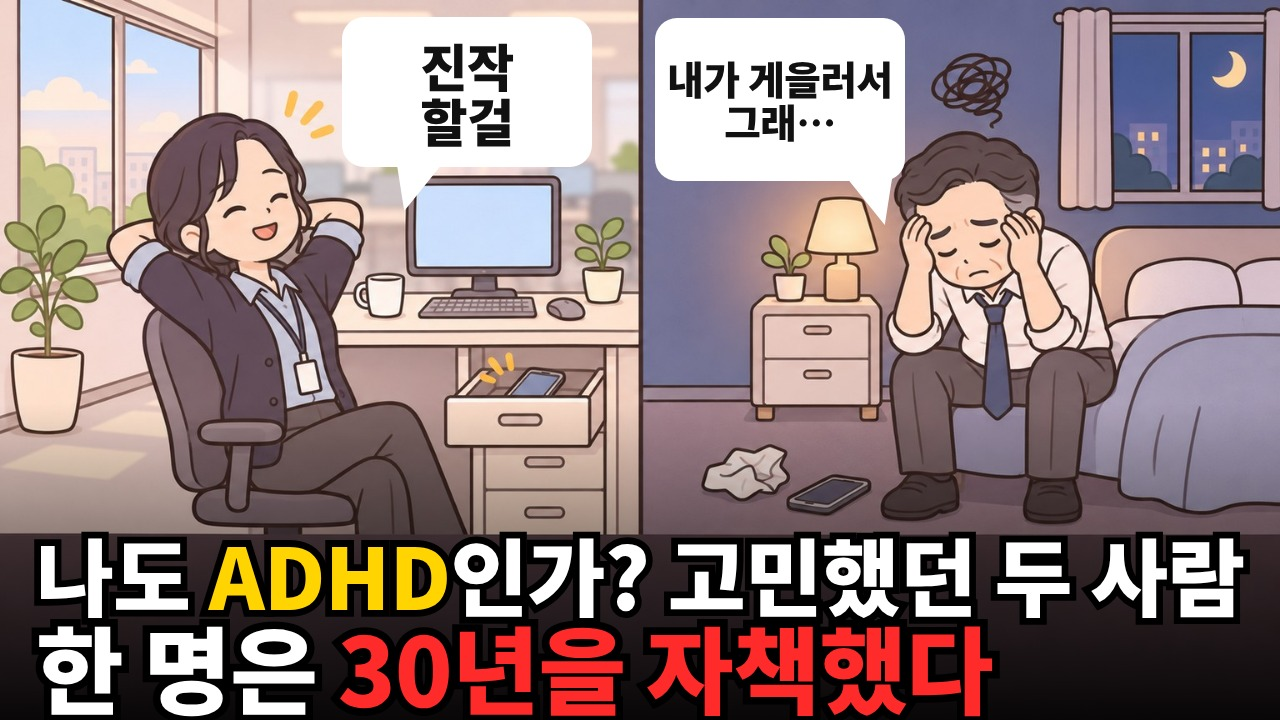
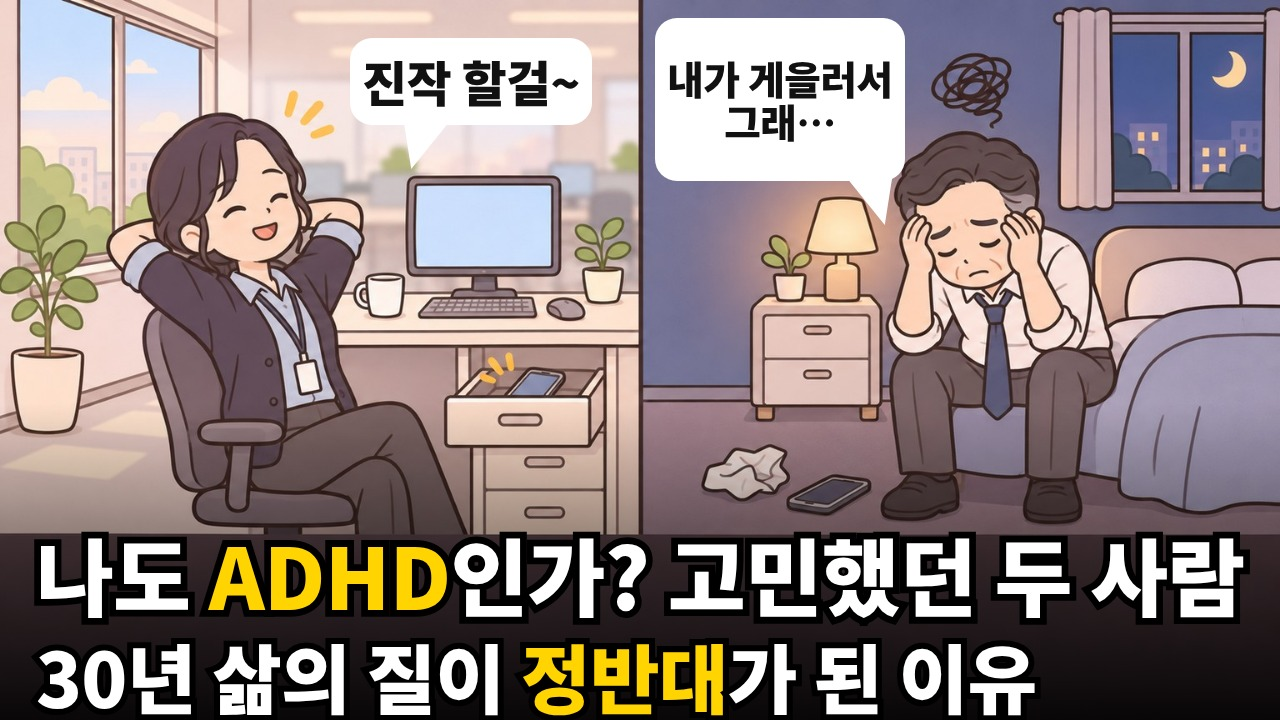
psychology: ADHD 사용자 제목·문구 3안 썸네일 · A 말풍선 「진작 할걸~」 한 줄 · 1안 페르소나 3회차 지시문
- thumbs_build.py v1.7 · package.json title(1안)·thumb_tests(2·3안)

Claude-Session: https://claude.ai/code/session_01PYG2MqrRa1FwGcWhbgqN1W

Changed region(s): [[0.0, 0.8556, 0.8125, 1.0], [0.25, 0.0, 0.4688, 0.275]]

diff --git a/psychology/source/thumbs_build.py b/psychology/source/thumbs_build.py
@@ -1,6 +1,7 @@
 #!/usr/bin/env python3
 # -*- coding: utf-8 -*-
-# VERSION: v1.6 — 2026-11-24 — adhd-ab-2026-11 A 말풍선 「진작 할걸」 (사용자 지시 "진작 할걸 이렇게 바꾸고")
+# VERSION: v1.7 — 2026-11-24 — adhd-ab-2026-11 사용자 제목·문구 3안 + A 말풍선 「진작 할걸~」 한 줄(작게) — 사용자 지시 "제목1 … 제목3 … 이렇게 가고 썸네일 각각 만들어 그리고 글씨 크기 좀 줄여서 한줄에 진작 할걸~ 로 고쳐"
+# 이전 v1.6 — 2026-11-24 — adhd-ab-2026-11 A 말풍선 「진작 할걸」 (사용자 지시 "진작 할걸 이렇게 바꾸고")
 # 이전 v1.5 — 2026-11-24 — adhd-ab-2026-11 실험 문구·A 말풍선을 성공 사례 썸네일 분석(thumb_text_patterns.md)으로 — 사용자 지시 "실험형 썸네일 문구 성공 사례 분석해서 한거야? 분석해서 만들고 이유를 아니까를 진작에 할걸(예시) 이런식으로 고쳐봐"
 # 이전 v1.4 — 2026-11-24 — 편마다 3안을 따로 (variants: 안마다 문구 2줄·말풍선 여러 개) — 사용자 지시 "둘다 말풍선 넣고 두번재 줄 괄호 제거해 그리고 나머지 2개는 실험형으로 너가 문구를 만드는 거야"
 # 이전 v1.3 — 2026-11-24 — adhd-ab-2026-11 (일상툰 · 그림 아래 어두운 띠 y 74% 부터): 편마다 글 상자(l1·l2)·꼬리 방향·설명 줄을 따로 — 사용자 지시 "1번으로 하고 썸네일 만들어봐"
@@ -11,6 +12,7 @@
 # CHANGELOG
 # | 버전 | 날짜 | 바뀐 것 | 함수 |
 # |---|---|---|---|
+# | v1.7 | 2026-11-24 | adhd-ab-2026-11 3안 = 사용자 제목·문구 1~3 · A 말풍선 한 줄 (낮은 상자 → 글씨 작게) | EP |
 # | v1.6 | 2026-11-24 | adhd-ab-2026-11 A 말풍선 「진작 할걸」 (사용자 문구) | EP |
 # | v1.5 | 2026-11-24 | adhd-ab-2026-11 실험 1·2 = 성공 사례 갈래(특징+숫자 · 이유형) · A 말풍선 = 인물 속마음 「진작 검사받을걸!」 | EP |
 # | v1.4 | 2026-11-24 | variants (안마다 문구·말풍선 여러 개) — package.json thumb_tests 와 글자 대조 | build |
@@ -72,13 +74,13 @@ EP = {
     "adhd-ab-2026-11": {
         "l1": [36, 524, 1208, 94], "l2": [36, 616, 1000, 100],
         # v1.4 두 사람 모두 말풍선 — A 머리 오른쪽 사무실 벽(모니터 위) · B 머리 왼쪽 어두운 벽 (사람·스탠드·낙서 구름을 가리지 않음)
-        "bubbles": [[[410, 20, 300, 180], "진작\n할걸", "right", 0.18], [[786, 22, 300, 196], "내가 게을러서\n그래…", "left", 0.78]],
+        "bubbles": [[[420, 46, 290, 104], "진작 할걸~", "right", 0.18], [[786, 22, 300, 196], "내가 게을러서\n그래…", "left", 0.78]],
         "variants": [
-            ("본안 — 사용자 문구", [[["나도 ", "W"], ["ADHD", "Y"], ["인가? 고민했던 두 사람", "W"]], [["한 명은 ", "W"], ["30년을 자책했다", "R"]]]),
-            ("실험 1 — 특징·비밀형 + 숫자 (성공 사례 배수 52.0 · 숫자 44.1)", [[["게으름인 줄 알았던 ", "W"], ["성인 ADHD", "Y"]], [["스스로 확인할 ", "W"], ["3가지", "Y"]]]),
-            ("실험 2 — 이유형 (성공 사례 배수 54.2)", [[["똑같이 미루던 두 사람", "W"]], [["삶이 갈린 ", "W"], ["진짜 이유", "Y"]]]),
+            ("1안 — 사용자 제목1·문구1", [[["나도 ", "W"], ["ADHD", "Y"], ["인가? 고민했던 두 사람", "W"]], [["30년 삶의 질이 ", "W"], ["정반대", "Y"], ["가 된 이유", "W"]]]),
+            ("2안 — 사용자 제목2·문구2", [[["나도 ", "W"], ["ADHD", "Y"], ["인가? 했던 고민", "W"]], [["30년 삶의 질을 ", "W"], ["바꾼 이유", "Y"]]]),
+            ("3안 — 사용자 제목3·문구3", [[["나도 ", "W"], ["ADHD", "Y"], ["인가? 했던 고민", "W"]], [["그냥 넘겼다가 ", "W"], ["30년을 자책한", "R"], [" 이유", "W"]]]),
         ],
-        "note": "본안 = 사용자 문구 · 실험 1·2 = 성공 사례 썸네일 갈래(psychology/result/outliers/thumb_text_patterns.md) · 말풍선 = 인물 속마음(갈래 배수 57.5) A 「진작 할걸」(사용자 문구)·B(대본 46번) — 제목이 정해지면 persona_loop title 단계",
+        "note": "1~3안 = 사용자 제목·문구 (2026-11-24) · 말풍선 = 인물 속마음 A 「진작 할걸~」(사용자 문구, 한 줄)·B 「내가 게을러서 그래…」(대본 46번) — persona_loop title 단계는 1안",
         "_": "B 머리(x 70~82% · y 18~42%) 왼쪽 어두운 벽 (스탠드 x 63~69% · y 27% 아래는 비움) · A 쪽은 비워 둠",
     },
 }

diff --git a/psychology/source/adhd-ab-2026-11/persona_adhd-ab-2026-11_title_3.md b/psychology/source/adhd-ab-2026-11/persona_adhd-ab-2026-11_title_3.md
@@ -1,0 +1,74 @@
+# 페르소나 검토 — 제목·썸네일 피드 시험 · adhd-ab-2026-11 · 3회차 (persona_gate.py v1.2)
+
+너는 처음 이 글을 보는 검토자다. 이 대화 밖의 다른 회차 결과는 모른다. 아래 페르소나가 **되어** 솔직하게 답한다 — 칭찬하려 애쓰지 않고, 억지로 흠을 만들지도 않는다.
+검토자 이름: T3-P3, T3-반론 (이름마다 따로 답 — 한 사람이면 하나)
+답은 아래 JSON 꼴 그대로, 검토자마다 파일 하나로 `psychology/source/adhd-ab-2026-11/answers_adhd-ab-2026-11_title_3/<검토자 이름>.json` 에 저장하고, 마지막 답에도 그대로 붙인다.
+투자 권유가 아닌 연구·교육용 영상의 검토다.
+
+## 1. 너는 누구인가
+
+### T3-P3
+**P3 직장 인간관계로 힘든 직장인** (댓글 몫 0.1448)
+- 나이: 20대 50% · 30대 50%
+- 지식: 기초 — 기초 68% · 초급 21% · 중급 11%
+- 이미 아는 말: 우울, 스트레스, 인간관계, 불안, 감정, 멘탈
+- 잘 모르는 말: -
+- 원하는 것: 도파민, 손절, 번아웃, 직장, 이직, 에너지, 퇴사, 직장생활, 별로
+- 싫어하는 것·떠나는 까닭: name
+- 실제로 묻는 말: 행복하지가 않아요 회사에서 깔깔 웃으면서 이야기하는 동료들이 참 신기해요 뭐가그렇게 재밌고 즐거울까 나는 하나도 웃음이 안나요, 직장에서 깊고 진중한 얘기만 할수있을까요?오히려 다들 부담스러워해요 그냥 가까운사람 아니면 가벼운 스몰토크만 하면서 내얘기를 안하는게 편한거에요 자신만 특별하다는 착각들좀 버려요, 5:06 현실은 내가 변화시킬 수 없는 것들이 나를 괴롭히는 거를 버텨야만 살아내지기 때문에 내가 버티느라고 에너지를 다 써서, 내가 변화시킬 수 있는 것에 대한 에너지가 없는게 진짜 번아웃입니다..... 직장에서 내가 손절하고 싶다…
+
+### T3-반론
+**반론 페르소나** — 결론보다 빈틈을 먼저 찾는 시청자 (아래 표).
+
+## 0. 한눈에 — 이 페르소나는 누구인가
+
+- **누구**: 영상의 결론보다 *빈틈*을 먼저 찾는 시청자. 정치·인물 비난·광고가 아니라 **내용**(조건·기간·숫자·비용·현실성·모순)에 댓글로 반박한다.
+- **어떻게 읽나**: 보기마다 '상황에 따라 다르지 않나?' · 숫자마다 '그 기간만 그런 것 아닌가?' · 해설마다 '앞에서 한 말과 다르지 않나?'.
+- **떠나는 까닭**: 애매한 정답·고른 기간·빠진 비용·과장 — 반박 댓글이 좋아요를 받으면 다른 시청자의 믿음도 깎인다.
+
+| 갈래 | 고른 댓글 | 몫 | 좋아요 | 좋아요 몫 | 대본 검토 질문 |
+|---|---|---|---|---|---|
+| K4 전문가가 아니다 · 진단하지 마라 | 6 | 16% | 8,537 | 38% | 진단처럼 들리는 말('당신은 ~장애')이 없는가? 도움을 권하는 문장이 겁주거나 떠넘기지 않는가? |
+| K1 사람마다 다르다 · 일반화 | 13 | 35% | 8,082 | 36% | '이런 사람은 다 ~다'처럼 들리는 문장이 없는가? 예외(그렇지 않은 사람)를 대본이 먼저 인정하는가? |
+| K3 부모·피해자 탓 | 5 | 14% | 1,797 | 8% | 부모나 상처받은 사람을 탓하는 말로 들리지 않는가? 그 시절 부모의 사정을 인정하는가? 반대로 가해를 감싸 주지도 않는가? |
+| K8 제목·썸네일 낚시 · 과장 | 2 | 5% | 1,118 | 5% | 제목·썸네일이 약속한 것(N가지·특징·이유)을 대본이 정확히 주는가? '소름'·'무조건'처럼 내용보다 센 말이 없는가? |
+| K6 나는 반대였다 (반대 경험) | 4 | 11% | 1,103 | 5% | 반대 경험을 가진 시청자가 '나는 아닌데'라며 떠나지 않게, 대본이 그런 경우를 짚는가? |
+| K7 원인·결과를 거꾸로 · 단정 | 2 | 5% | 1,081 | 5% | 'A 때문에 B'를 단정하지 않는가? 설문 연구(한 번 조사)를 원인으로 말하지 않는가? |
+| K5 뻔한 말 · 누구나 아는 이야기 | 3 | 8% | 615 | 3% | 누구나 아는 말만 하고 끝나는 챕터가 없는가? 새로 알게 되는 것(연구·구체 장면·할 말)이 챕터마다 있는가? |
+| K2 근거 없음 · 유사 과학 | 2 | 5% | 321 | 1% | 연구를 말할 때 누구를·몇 명·어떻게 조사했는지 말하는가? 연구가 말하지 않은 것(원인·효과)을 연구 결과처럼 말하지 않는가? |
+
+## 2. 유튜브 홈 화면 (제목만 보인다고 생각하고 1초 안에 고른다)
+
+1. 나도 성인 ADHD인가? 고민했던 두 사람이 30년 삶의 질이 정반대가 된 이유
+2. 연애는 안 하는데 관계는 하고 싶어요…🥵 | Amy 매운맛 고민 상담소
+3. "순간 일어나는 감정은 진짜 내가 아닙니다" 멘탈이 무너지지 않는 불교의 지혜【#서교동초대석】《#보만스님 모음집》
+4. [#유퀴즈온더블럭] 당시엔 번아웃이 올 수밖에 없었어요💧 소녀시대가 되기까지 티파니가 견뎌온 날들✨
+5. 마음의이유EP005｜사람이 많은데도 왜 외로울까요? 외로움은 혼자라서 생기는 게 아닙니다
+6. 축의금 10만 원 내고 손절당했다?🤔경조사비 고민 종결해 드림ㅣ돈키타카
+7. c.s. 루이스의 지혜 | 나르시시스트 뒤에 숨겨진 어두운 영적 존재는 무엇인가요？ ｜ C S  루이스의 지혜로운 교훈
+8. 불륜한 남성의 심리가 한 순간에 달라지는 이유 | 세포언니 TV |
+9. [#이호선상담소] 아내가 한숨 쉬면 심장이 벌렁거려요😓 일거수일투족을 지적하는 아내와 사는 게 두려운 남편😰 | #티비빅
+10. 자기관리 - 선택지를 만들어 강해지는 사람 특징
+
+→ 이 화면에서 **누르고 싶은 영상 번호**를 많아야 2개 (`feed_picks`).
+
+## 3. 이 영상 하나를 자세히 (이번엔 제목 + 썸네일 문구를 같이 본다)
+
+```
+제목: 나도 성인 ADHD인가? 고민했던 두 사람이 30년 삶의 질이 정반대가 된 이유
+썸네일 문구: 나도 ADHD인가? 고민했던 두 사람 / 30년 삶의 질이 정반대가 된 이유
+보조 문구: 진작 할걸~ / 내가 게을러서 그래…
+```
+→ 누르겠나 (`candidate_click` true/false) · 믿음 / 의심 / 낚시 (`trust`) · 멈추게 한 말 (`stop`) · 고칠 방향 (`fix`).
+
+## 답
+
+```json
+{"reviewer": "<검토자 이름 그대로>", "persona": "<P? 또는 반론>",
+ "feed_picks": [<누를 영상 번호 — 누를 차례대로, 많아야 2개, 하나도 안 누르면 []>],
+ "feed_why": "<왜 그것을 눌렀나 / 왜 안 눌렀나 한 줄>",
+ "candidate_click": true,
+ "trust": "믿음 | 의심 | 낚시",
+ "stop": "<보고 멈추거나 넘기게 만든 낱말·문구 (없으면 빈칸)>",
+ "fix": "<고치면 누를 것 같은 방향 한 줄 (없으면 빈칸)>"}
+```
